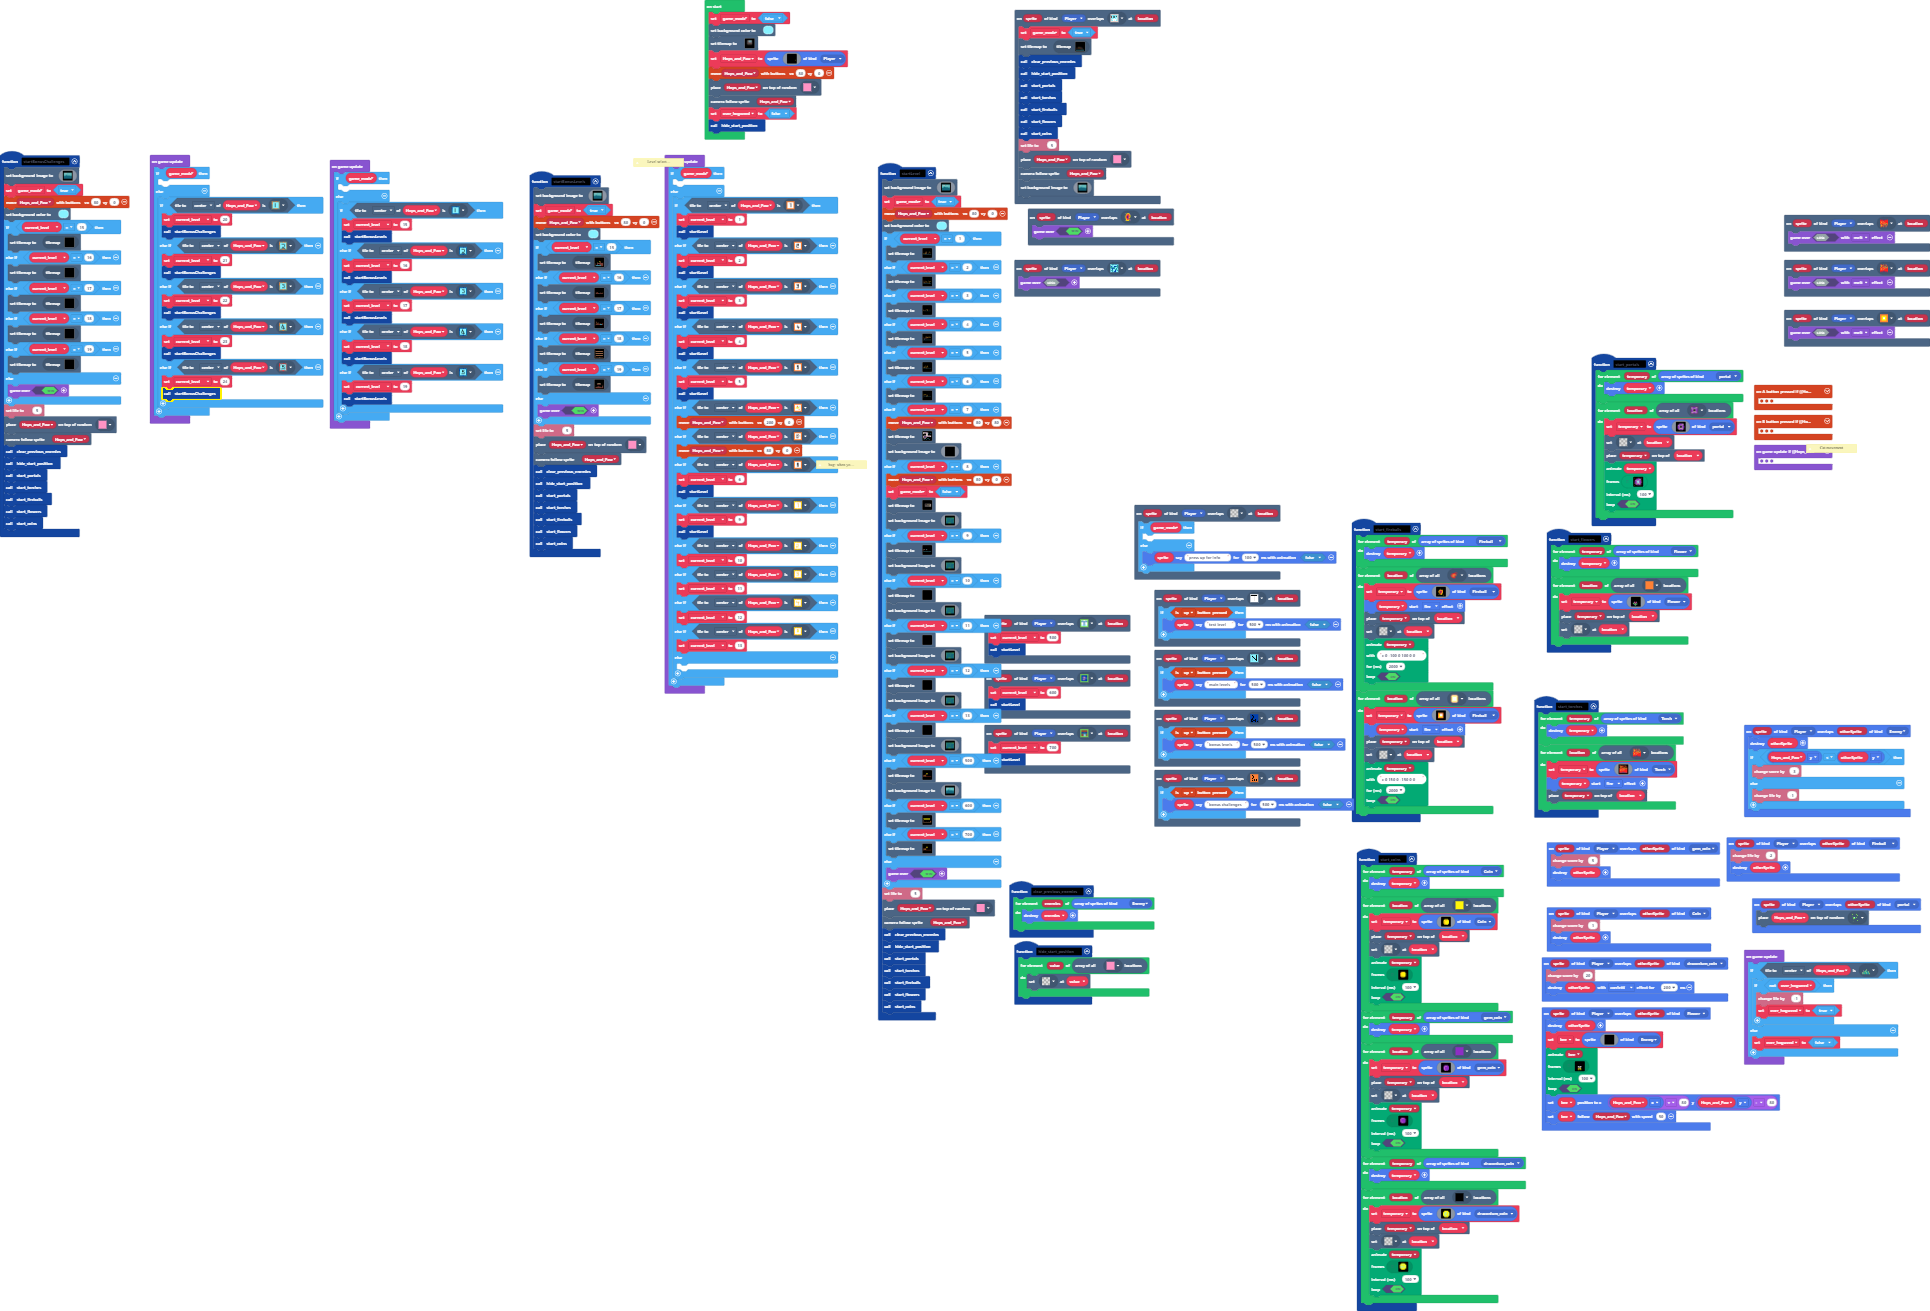
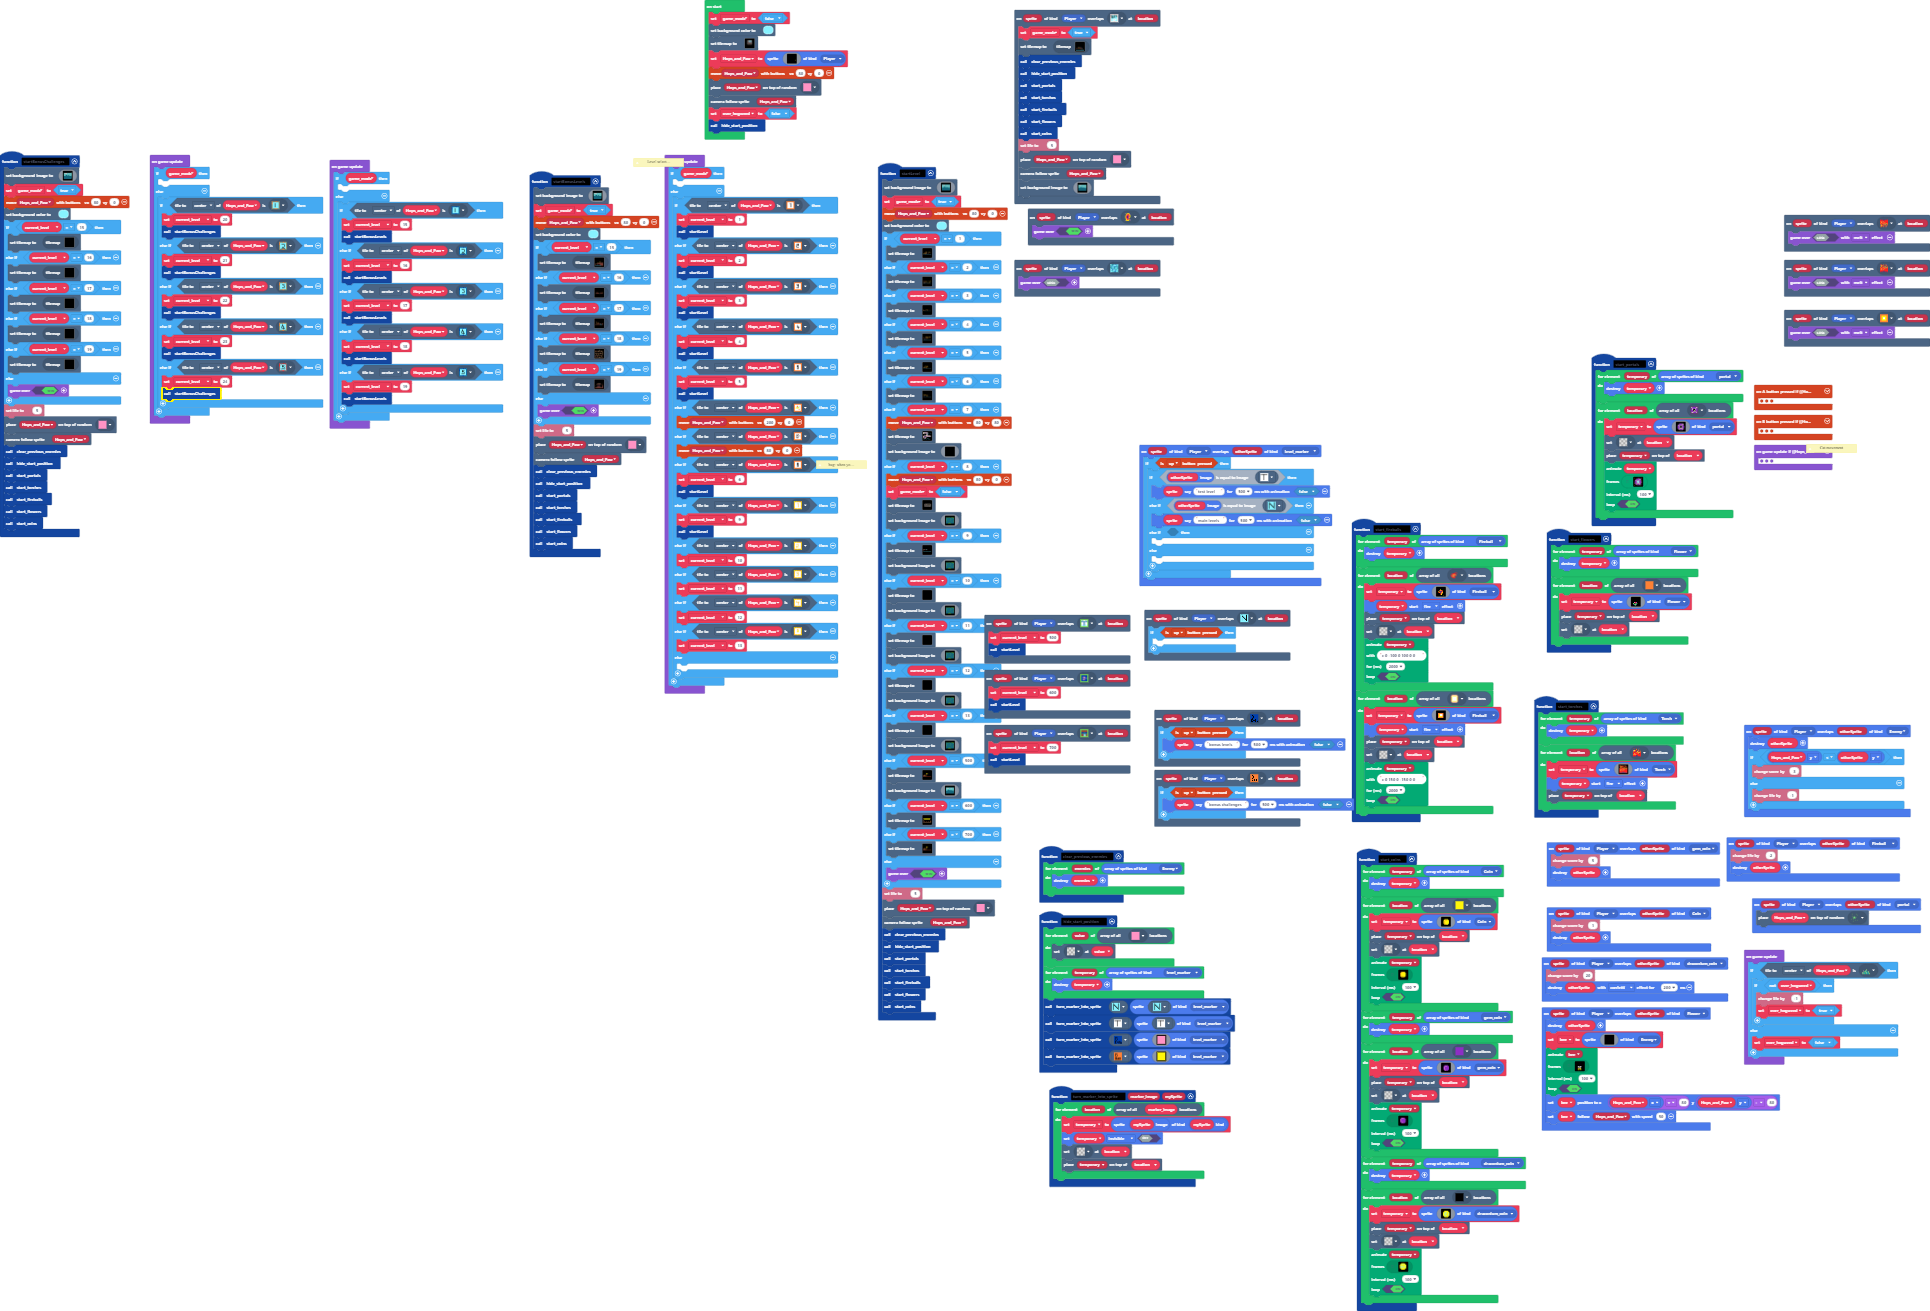
testsave level markers

Changed region(s): [[0.4974, 0.6407, 0.6528, 0.9153], [0.5907, 0.3356, 0.715, 0.5492], [0.4974, 0.4577, 0.5285, 0.4882]]

diff --git a/main.ts b/main.ts
@@ -7,6 +7,7 @@ namespace SpriteKind {
     export const draconium_coin = SpriteKind.create()
     export const portal = SpriteKind.create()
     export const Text = SpriteKind.create()
+    export const level_marker = SpriteKind.create()
 }
 scene.onOverlapTile(SpriteKind.Player, assets.tile`myTile38`, function (sprite, location) {
     game.over(false)
@@ -110,13 +111,6 @@ function start_fireballs () {
         )
     }
 }
-scene.onOverlapTile(SpriteKind.Player, assets.tile`fire 1`, function (sprite, location) {
-    if (game_mode) {
-    	
-    } else {
-        sprite.sayText("press up for info", 100, false)
-    }
-})
 function start_portals () {
     for (let temporary of sprites.allOfKind(SpriteKind.portal)) {
         temporary.destroy()
@@ -187,11 +181,14 @@ function start_portals () {
 scene.onOverlapTile(SpriteKind.Player, assets.tile`tile3`, function (sprite, location) {
     game.over(false, effects.melt)
 })
-scene.onOverlapTile(SpriteKind.Player, assets.tile`myTile39`, function (sprite, location) {
-    if (controller.up.isPressed()) {
-        sprite.sayText("test level", 500, false)
+function turn_marker_into_sprite (marker_image: Image, mySprite: Sprite) {
+    for (let location of tiles.getTilesByType(marker_image)) {
+        temporary = sprites.create(mySprite.image, mySprite.kind())
+        temporary.setFlag(SpriteFlag.Invisible, false)
+        tiles.setTileAt(location, assets.tile`fire 1`)
+        tiles.placeOnTile(temporary, location)
     }
-})
+}
 sprites.onOverlap(SpriteKind.Player, SpriteKind.portal, function (sprite, otherSprite) {
     tiles.placeOnRandomTile(Hops_and_Paw, assets.tile`myTile31`)
 })
@@ -203,6 +200,47 @@ function hide_start_position () {
     for (let value of tiles.getTilesByType(assets.tile`tile6`)) {
         tiles.setTileAt(value, assets.tile`tile0`)
     }
+    for (let temporary of sprites.allOfKind(SpriteKind.level_marker)) {
+        temporary.destroy()
+    }
+    turn_marker_into_sprite(assets.tile`myTile51`, sprites.create(assets.tile`myTile51`, SpriteKind.level_marker))
+    turn_marker_into_sprite(assets.tile`myTile39`, sprites.create(assets.tile`myTile39`, SpriteKind.level_marker))
+    turn_marker_into_sprite(assets.tile`myTile52`, sprites.create(img`
+        3 3 3 3 3 3 3 3 3 3 3 3 3 3 3 3 
+        3 3 3 3 3 3 3 3 3 3 3 3 3 3 3 3 
+        3 3 3 3 3 3 3 3 3 3 3 3 3 3 3 3 
+        3 3 3 3 3 3 3 3 3 3 3 3 3 3 3 3 
+        3 3 3 3 3 3 3 3 3 3 3 3 3 3 3 3 
+        3 3 3 3 3 3 3 3 3 3 3 3 3 3 3 3 
+        3 3 3 3 3 3 3 3 3 3 3 3 3 3 3 3 
+        3 3 3 3 3 3 3 3 3 3 3 3 3 3 3 3 
+        3 3 3 3 3 3 3 3 3 3 3 3 3 3 3 3 
+        3 3 3 3 3 3 3 3 3 3 3 3 3 3 3 3 
+        3 3 3 3 3 3 3 3 3 3 3 3 3 3 3 3 
+        3 3 3 3 3 3 3 3 3 3 3 3 3 3 3 3 
+        3 3 3 3 3 3 3 3 3 3 3 3 3 3 3 3 
+        3 3 3 3 3 3 3 3 3 3 3 3 3 3 3 3 
+        3 3 3 3 3 3 3 3 3 3 3 3 3 3 3 3 
+        3 3 3 3 3 3 3 3 3 3 3 3 3 3 3 3 
+        `, SpriteKind.level_marker))
+    turn_marker_into_sprite(assets.tile`myTile53`, sprites.create(img`
+        5 5 5 5 5 5 5 5 5 5 5 5 5 5 5 5 
+        5 5 5 5 5 5 5 5 5 5 5 5 5 5 5 5 
+        5 5 5 5 5 5 5 5 5 5 5 5 5 5 5 5 
+        5 5 5 5 5 5 5 5 5 5 5 5 5 5 5 5 
+        5 5 5 5 5 5 5 5 5 5 5 5 5 5 5 5 
+        5 5 5 5 5 5 5 5 5 5 5 5 5 5 5 5 
+        5 5 5 5 5 5 5 5 5 5 5 5 5 5 5 5 
+        5 5 5 5 5 5 5 5 5 5 5 5 5 5 5 5 
+        5 5 5 5 5 5 5 5 5 5 5 5 5 5 5 5 
+        5 5 5 5 5 5 5 5 5 5 5 5 5 5 5 5 
+        5 5 5 5 5 5 5 5 5 5 5 5 5 5 5 5 
+        5 5 5 5 5 5 5 5 5 5 5 5 5 5 5 5 
+        5 5 5 5 5 5 5 5 5 5 5 5 5 5 5 5 
+        5 5 5 5 5 5 5 5 5 5 5 5 5 5 5 5 
+        5 5 5 5 5 5 5 5 5 5 5 5 5 5 5 5 
+        5 5 5 5 5 5 5 5 5 5 5 5 5 5 5 5 
+        `, SpriteKind.level_marker))
 }
 scene.onOverlapTile(SpriteKind.Player, assets.tile`myTile16`, function (sprite, location) {
     game.over(false, effects.melt)
@@ -1093,6 +1131,19 @@ function clear_previous_enemies () {
 }
 scene.onOverlapTile(SpriteKind.Player, assets.tile`tile2`, function (sprite, location) {
     game.over(true)
+})
+sprites.onOverlap(SpriteKind.Player, SpriteKind.level_marker, function (sprite, otherSprite) {
+    if (controller.up.isPressed()) {
+        if (otherSprite.image.equals(assets.tile`myTile39`)) {
+            sprite.sayText("test level", 500, false)
+        } else if (otherSprite.image.equals(assets.tile`myTile51`)) {
+            sprite.sayText("main levels", 500, false)
+        } else if (false) {
+        	
+        } else {
+        	
+        }
+    }
 })
 scene.onOverlapTile(SpriteKind.Player, assets.tile`myTile52`, function (sprite, location) {
     if (controller.up.isPressed()) {
@@ -2328,7 +2379,7 @@ function startLevel () {
 }
 scene.onOverlapTile(SpriteKind.Player, assets.tile`myTile51`, function (sprite, location) {
     if (controller.up.isPressed()) {
-        sprite.sayText("main levels", 500, false)
+    	
     }
 })
 scene.onOverlapTile(SpriteKind.Player, assets.tile`myTile23`, function (sprite, location) {
